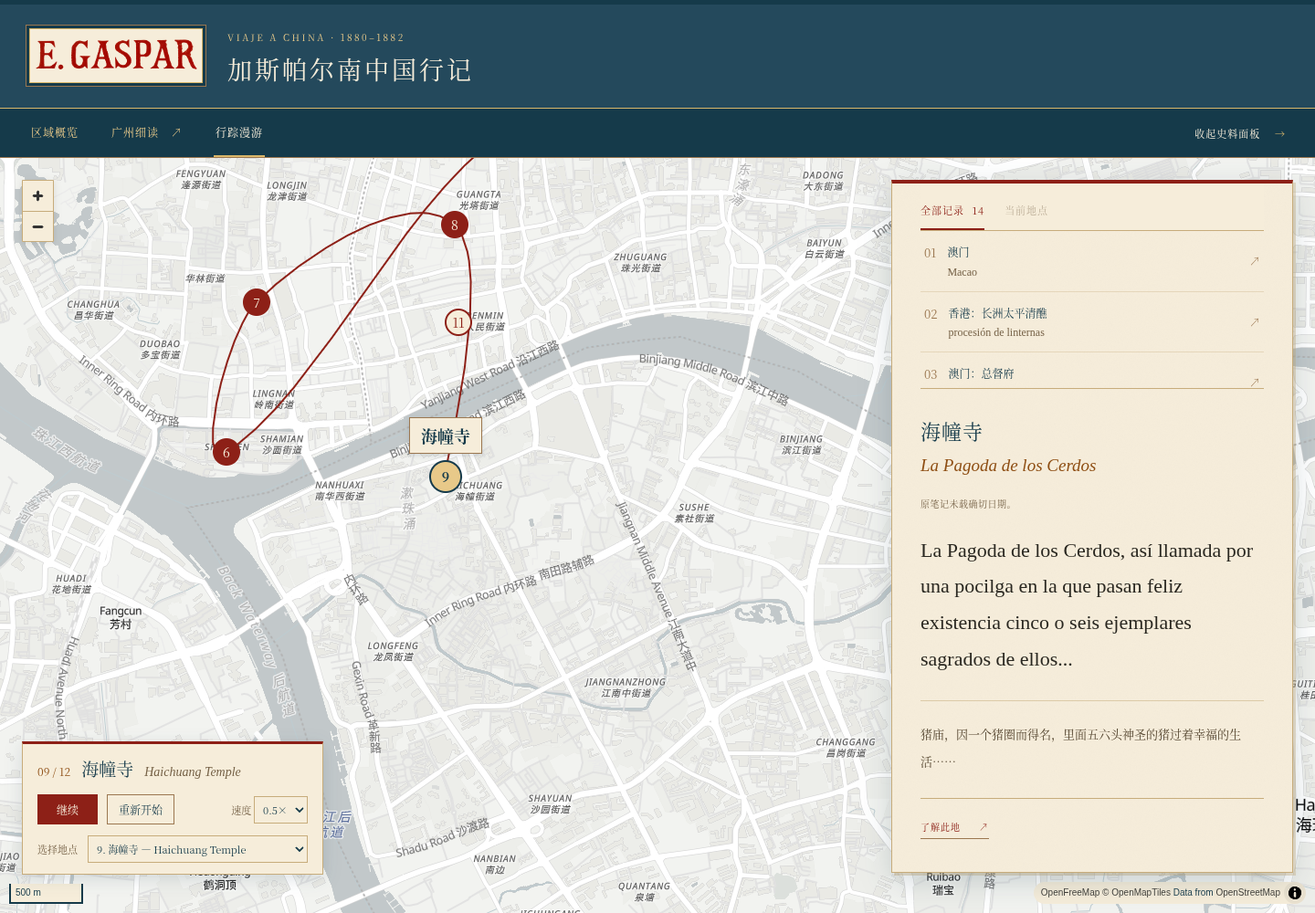
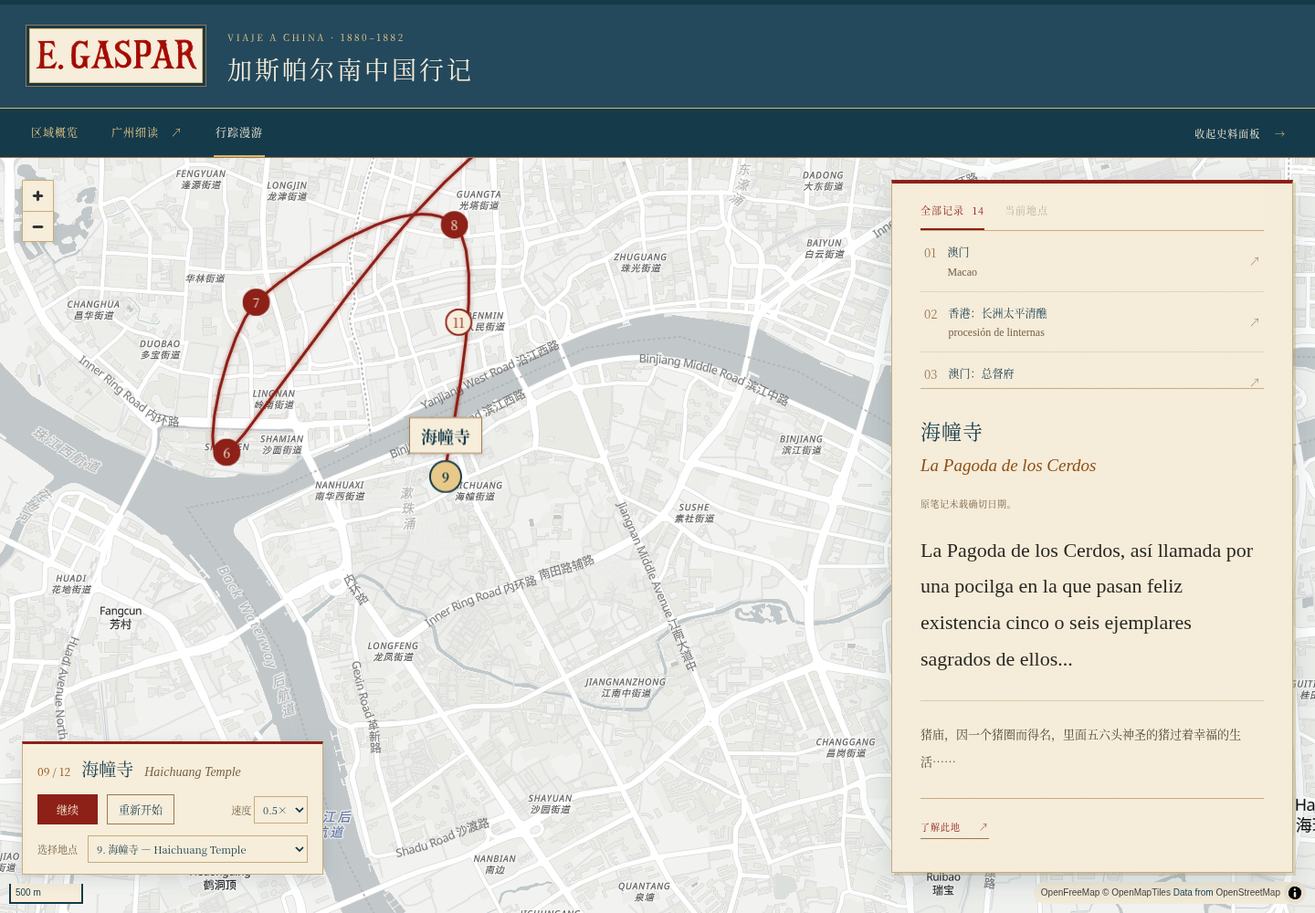
Remove stray journey connectors and stabilize softly glowing route playback

Changed region(s): [[0.1562, 0.186, 0.3438, 0.496], [0.3125, 0.248, 0.375, 0.527], [0.1875, 0.31, 0.2188, 0.341]]

diff --git a/004_Interactive_Map_MVP/src/JourneyMap.tsx b/004_Interactive_Map_MVP/src/JourneyMap.tsx
@@ -1,7 +1,7 @@
 import { useEffect, useRef, useState } from 'react';
 import maplibregl, { type GeoJSONSource, type Map as LibreMap, Marker } from 'maplibre-gl';
 import 'maplibre-gl/dist/maplibre-gl.css';
-import { journeyCoordinates, journeyLineLayer, positionAt, SEGMENT_SECONDS, type JourneyStop } from './journey';
+import { journeyCoordinates, journeyLineLayers, positionAt, SEGMENT_SECONDS, type JourneyStop } from './journey';
 import type { Place } from './data';
 
 function readingPadding(map: LibreMap, panelOpen: boolean) {
@@ -19,25 +19,24 @@ function readingPadding(map: LibreMap, panelOpen: boolean) {
 export default function JourneyMap({ stops, panelOpen, onStop }: { stops: JourneyStop[]; panelOpen: boolean; onStop: (record: Place) => void }) {
   const container = useRef<HTMLDivElement>(null), mapRef = useRef<LibreMap | null>(null);
   const [progress, setProgress] = useState(0), [playing, setPlaying] = useState(false), [speed, setSpeed] = useState(1);
-  const [ready, setReady] = useState(false), [mapIdle, setMapIdle] = useState(false), [mapError, setMapError] = useState('');
+  const [ready, setReady] = useState(false), [mapError, setMapError] = useState('');
   const progressRef = useRef(0), playingRef = useRef(false), speedRef = useRef(1);
   const selectRef = useRef<(index: number) => void>(() => {});
   const latest = useRef({ onStop, panelOpen }); latest.current = { onStop, panelOpen };
-  const elements = useRef<HTMLElement[]>([]), [mobile, setMobile] = useState(() => window.innerWidth <= 650);
+  const elements = useRef<HTMLElement[]>([]);
+  const drawRef = useRef<(value: number, following: boolean) => void>(() => {});
   const maximum = stops.length - 1, active = Math.min(Math.floor(progress), maximum), finished = progress >= maximum;
   const current = stops[active];
-  function seek(index: number) { playingRef.current = false; setPlaying(false); progressRef.current = index; setProgress(index); }
+  function seek(index: number) { playingRef.current = false; setPlaying(false); progressRef.current = index; setProgress(index); drawRef.current(index, false); }
   selectRef.current = seek;
   function restart() { seek(0); }
   function togglePlayback() {
     if (finished) { progressRef.current = 0; setProgress(0); }
+    mapRef.current?.stop();
+    if (playingRef.current) setProgress(progressRef.current);
     playingRef.current = !playingRef.current; setPlaying(playingRef.current);
   }
   useEffect(() => { speedRef.current = speed; }, [speed]);
-  useEffect(() => {
-    const query = window.matchMedia('(max-width: 650px)'); const change = () => setMobile(query.matches);
-    query.addEventListener('change', change); return () => query.removeEventListener('change', change);
-  }, []);
   useEffect(() => {
     if (!container.current || !stops.length) return;
     let map: LibreMap;
@@ -51,7 +50,6 @@ export default function JourneyMap({ stops, panelOpen, onStop }: { stops: Journe
     pad();
     map.addControl(new maplibregl.NavigationControl({ showCompass: false }), 'top-left');
     map.addControl(new maplibregl.ScaleControl({ unit: 'metric' }), 'bottom-left');
-    const leaders = document.createElementNS('http://www.w3.org/2000/svg', 'svg'); leaders.classList.add('journey-leaders'); container.current.append(leaders);
     const markers = stops.map((stop, index) => {
       const button = document.createElement('button'); button.type = 'button'; button.className = 'journey-marker upcoming';
       const number = document.createElement('span'); number.textContent = String(stop.step);
@@ -59,63 +57,49 @@ export default function JourneyMap({ stops, panelOpen, onStop }: { stops: Journe
       button.append(number, label); button.setAttribute('aria-label', `漫游第${stop.step}站 ${stop.name}`);
       button.title = `${stop.name} · ${stop.english}`; button.addEventListener('click', () => selectRef.current(index));
       elements.current[index] = button;
-      return new Marker({ element: button, anchor: 'center' }).setLngLat(stop.coordinates).addTo(map);
+      return new Marker({ element: button, anchor: 'center', subpixelPositioning: true }).setLngLat(stop.coordinates).addTo(map);
     });
-    // Screen-space decluttering only; marker geographic anchors and source coordinates stay unchanged.
+    // No offsets or connector lines: markers remain at their verified geographic anchors.
     const arrange = () => {
       if (container.current) container.current.dataset.actualCameraLng = String(map.getCenter().lng);
       const occupied: { x: number; y: number }[] = [];
       const activeIndex = Math.min(Math.floor(progressRef.current), stops.length - 1);
-      leaders.replaceChildren();
       const order = [activeIndex, ...stops.map((_, index) => index).filter(index => index !== activeIndex)];
       for (const index of order) {
         const point = map.project(stops[index].coordinates);
-        let offset: [number, number] = [0, 0];
-        search: for (let ring = 0; ring <= 12; ring++) {
-          const count = ring ? ring * 8 : 1;
-          for (let n = 0; n < count; n++) {
-            const angle = n / count * Math.PI * 2;
-            const candidate: [number, number] = [Math.cos(angle) * ring * 44, Math.sin(angle) * ring * 44];
-            const x = point.x + candidate[0], y = point.y + candidate[1];
-            if (occupied.every(other => Math.hypot(x - other.x, y - other.y) >= 44)) { offset = candidate; break search; }
-          }
-        }
-        occupied.push({ x: point.x + offset[0], y: point.y + offset[1] });
-        markers[index].setOffset(offset);
-        if (Math.hypot(...offset) > 1) {
-          const line = document.createElementNS(leaders.namespaceURI, 'line');
-          for (const [key, value] of Object.entries({ x1: point.x, y1: point.y, x2: point.x + offset[0], y2: point.y + offset[1] })) line.setAttribute(key, String(value));
-          leaders.append(line);
-        }
+        elements.current[index].dataset.anchorX = String(point.x);
+        elements.current[index].dataset.anchorY = String(point.y);
+        const visible = occupied.every(other => Math.hypot(point.x - other.x, point.y - other.y) >= 40);
+        elements.current[index].style.visibility = visible ? 'visible' : 'hidden';
+        if (visible) occupied.push(point);
       }
     };
+    map.on('move', arrange);
     map.on('render', arrange);
     map.on('load', () => {
       map.addSource('journey-route', { type: 'geojson', data: { type: 'FeatureCollection', features: [] } });
-      map.addLayer(journeyLineLayer(window.innerWidth <= 650));
+      journeyLineLayers().forEach(layer => map.addLayer(layer));
       setReady(true);
     });
-    map.on('movestart', () => setMapIdle(false));
-    map.on('idle', () => setMapIdle(true));
+    map.on('movestart', () => { if (container.current) container.current.dataset.mapIdle = 'false'; });
+    map.on('idle', () => { if (container.current) container.current.dataset.mapIdle = 'true'; });
     map.on('error', () => setMapError('部分底图暂时无法加载，漫游控制与史料仍可使用。'));
     const resize = new ResizeObserver(() => { map.resize(); pad(); }); resize.observe(container.current);
     const controls = container.current.parentElement?.querySelector('.journey-controls'); if (controls) resize.observe(controls);
-    return () => { resize.disconnect(); leaders.remove(); markers.forEach(marker => marker.remove()); elements.current = []; map.remove(); mapRef.current = null; };
+    return () => { resize.disconnect(); markers.forEach(marker => marker.remove()); elements.current = []; map.remove(); mapRef.current = null; };
   }, [stops]);
   useEffect(() => {
     const map = mapRef.current; if (!map) return;
     map.setPadding(readingPadding(map, panelOpen));
   }, [panelOpen]);
   useEffect(() => {
-    const map = mapRef.current;
-    if (ready && map?.getLayer('journey-route')) map.setPaintProperty('journey-route', 'line-width', mobile ? 1.5 : 2);
-  }, [mobile, ready]);
-  useEffect(() => {
     let frame = 0, last = 0;
     const tick = (time: number) => {
       if (last && playingRef.current && ready) {
         const next = Math.min(maximum, progressRef.current + Math.min(time - last, 100) / 1000 * speedRef.current / SEGMENT_SECONDS);
-        progressRef.current = next; setProgress(next);
+        const previous = progressRef.current; progressRef.current = next;
+        drawRef.current(next, true);
+        if (Math.floor(previous) !== Math.floor(next) || next >= maximum) setProgress(next);
         if (next >= maximum) { playingRef.current = false; setPlaying(false); }
       }
       last = time; frame = requestAnimationFrame(tick);
@@ -125,32 +109,37 @@ export default function JourneyMap({ stops, panelOpen, onStop }: { stops: Journe
   useEffect(() => { latest.current.onStop(stops[active].record); }, [active, stops]);
   useEffect(() => {
     const map = mapRef.current; if (!ready || !map) return;
-    setMapIdle(false);
-    const coordinates = journeyCoordinates(stops, progress);
-    (map.getSource('journey-route') as GeoJSONSource).setData({ type: 'FeatureCollection', features: coordinates.length >= 2 ? [{ type: 'Feature', properties: {}, geometry: { type: 'LineString', coordinates } }] : [] });
-    elements.current.forEach((element, index) => {
-      const status = index === active ? 'active' : index < active ? 'completed' : 'upcoming';
-      element.classList.remove('active', 'completed', 'upcoming'); element.classList.add(status); element.dataset.status = status;
-      element.setAttribute('aria-current', index === active ? 'step' : 'false');
-    });
-    if (progress === 0 && !playing) {
-      map.easeTo({ center: [113.72, 22.7], zoom: 8.1, duration: 700 });
-    } else {
-      const zoom = progress < 3 ? 8.1 : 8.1 + Math.min((progress - 3) / 2, 1) * 5.4;
-      let center = positionAt(stops, progress);
-      if (progress < .25) {
-        const blend = progress / .25;
+    let previousActive = -1;
+    drawRef.current = (value, following) => {
+      const activeIndex = Math.min(Math.floor(value), stops.length - 1);
+      const coordinates = journeyCoordinates(stops, value);
+      (map.getSource('journey-route') as GeoJSONSource).setData({ type: 'FeatureCollection', features: coordinates.length >= 2 ? [{ type: 'Feature', properties: {}, geometry: { type: 'LineString', coordinates } }] : [] });
+      if (container.current) {
+        container.current.dataset.progress = String(value);
+        container.current.dataset.routePoints = String(value > 0 ? Math.ceil(value) + 1 : 0);
+      }
+      if (activeIndex !== previousActive) {
+        elements.current.forEach((element, index) => {
+          const status = index === activeIndex ? 'active' : index < activeIndex ? 'completed' : 'upcoming';
+          element.classList.remove('active', 'completed', 'upcoming'); element.classList.add(status); element.dataset.status = status;
+          element.setAttribute('aria-current', index === activeIndex ? 'step' : 'false');
+        });
+        previousActive = activeIndex;
+      }
+      const zoom = value < 3 ? 8.1 : 8.1 + Math.min((value - 3) / 2, 1) * 5.4;
+      let center = positionAt(stops, value);
+      if (following && value < .25) {
+        const blend = value / .25;
         center = [113.72 + (center[0] - 113.72) * blend, 22.7 + (center[1] - 22.7) * blend];
       }
-      if (playingRef.current) {
-        // Follow the same progressive curve endpoint on every animation frame.
-        map.jumpTo({ center, zoom });
-      }
-      else map.easeTo({ center, zoom, duration: 700 });
-    }
-  }, [progress, ready, stops]);
+      if (following) map.jumpTo({ center, zoom });
+      else { map.stop(); map.easeTo({ center: value === 0 ? [113.72, 22.7] : center, zoom, duration: 700 }); }
+    };
+    drawRef.current(progressRef.current, false);
+    return () => { drawRef.current = () => {}; };
+  }, [ready, stops]);
   return <section className="map-section journey-map" aria-label="行踪漫游地图">
-    <div ref={container} className="map-canvas" data-testid="journey-canvas" data-progress={progress} data-map-idle={mapIdle} data-complete={finished} data-route-points={progress > 0 ? Math.ceil(progress) + 1 : 0} data-camera-longitude={positionAt(stops, progress)[0]} data-line-width={mobile ? 1.5 : 2} />
+    <div ref={container} className="map-canvas" data-testid="journey-canvas" data-map-idle="false" data-complete={finished} data-line-width="3" />
     {!ready && !mapError && <div className="map-loading">正在展开漫游地图…</div>}
     {mapError && <div className="tile-notice" role="status">{mapError}</div>}
     <div className="journey-controls" aria-label="漫游播放控制">

diff --git a/004_Interactive_Map_MVP/tests/journey.spec.ts b/004_Interactive_Map_MVP/tests/journey.spec.ts
@@ -2,7 +2,7 @@ import { test, expect } from './fixtures';
 import Papa from 'papaparse';
 import { readFileSync } from 'node:fs';
 import { parsePlaces } from '../src/data';
-import { buildJourneyStops, journeyCoordinates, journeyLineLayer, CURVE_SAMPLES, positionAt } from '../src/journey';
+import { buildJourneyStops, journeyCoordinates, journeyLineLayers, CURVE_SAMPLES, positionAt } from '../src/journey';
 import { researchNotes } from '../src/researchNotes';
 import { placeInformation } from '../src/placeInfo';
 const csv = readFileSync('public/data/places_geocoded.csv', 'utf8');
@@ -18,9 +18,11 @@ test('curated stops preserve 14 source records, verified coordinates and exact s
   expect(stops.map((_, index) => journeyCoordinates(stops, 11)[index * CURVE_SAMPLES])).toEqual(stops.map(stop => [stop.record.longitude, stop.record.latitude]));
   expect(positionAt(stops, 1.5)).not.toEqual([(stops[1].coordinates[0]+stops[2].coordinates[0])/2,(stops[1].coordinates[1]+stops[2].coordinates[1])/2]);
   expect(journeyCoordinates(stops, 0)).toEqual([]);
-  expect(journeyLineLayer(false).paint).toEqual({ 'line-color': '#8D2017', 'line-width': 2 });
-  expect(journeyLineLayer(true).paint).toEqual({ 'line-color': '#8D2017', 'line-width': 1.5 });
-  expect(journeyLineLayer(false).layout).toEqual({ 'line-cap': 'round', 'line-join': 'round' });
+  const prefix = journeyCoordinates(stops, 2.4);
+  expect(prefix).toEqual([...journeyCoordinates(stops, 11).slice(0, Math.floor(2.4 * CURVE_SAMPLES) + 1), positionAt(stops, 2.4)]);
+  expect(prefix[prefix.length-1]).toEqual(positionAt(stops, 2.4));
+  expect(journeyLineLayers().map(layer => layer.paint?.['line-width'])).toEqual([14,8,3]);
+  expect(journeyLineLayers().every(layer => layer.source === 'journey-route' && layer.paint?.['line-color'] === '#8D2017')).toBe(true);
   expect(researchNotes[10]).toContain('尚需史料印证');
   expect(Object.keys(placeInformation)).toEqual(['9','10','11','12','13','14']);
   expect(Papa.parse(csv, {header:true,skipEmptyLines:true}).data).toHaveLength(14);
@@ -66,11 +68,11 @@ test('journey plays, pauses, resumes, retains completed route and restarts', asy
   await expect(page.locator('.map-marker.overview')).toHaveCount(5,{timeout:20000});
 });
 
-test('mobile journey has all stops, 1.5px route and usable playback controls',async({page})=>{
+test('mobile journey has all stops, 3px glowing route and usable playback controls',async({page})=>{
   await page.setViewportSize({width:390,height:844}); await page.goto('/');
   await expect(page.getByTestId('record-list').locator('li')).toHaveCount(14);
   await page.getByRole('button',{name:'行踪漫游',exact:true}).click();
-  await expect(page.getByTestId('journey-canvas')).toHaveAttribute('data-line-width','1.5');
+  await expect(page.getByTestId('journey-canvas')).toHaveAttribute('data-line-width','3');
   await expect(page.getByLabel('选择漫游地点').locator('option')).toHaveCount(12);
   await page.getByLabel('选择漫游地点').selectOption('10');
   await expect(page.locator('.journey-current')).toContainText('圣心大教堂');
@@ -139,7 +141,37 @@ test('compact desktop controls leave reached Humen marker and floating caption c
   await page.screenshot({path:'journey-humen.png'});
   await page.getByLabel('选择漫游地点').selectOption('8');
   await expect(page.getByTestId('journey-canvas')).toHaveAttribute('data-map-idle','true');
-  const circles = await page.locator('.journey-marker').evaluateAll(elements => elements.map(element => {const r=element.getBoundingClientRect(); return {x:r.x+r.width/2,y:r.y+r.height/2};}));
-  for(let a=0;a<circles.length;a++)for(let b=a+1;b<circles.length;b++)expect(Math.hypot(circles[a].x-circles[b].x,circles[a].y-circles[b].y)).toBeGreaterThan(40);
+  const circles = await page.locator('.journey-marker:visible').evaluateAll(elements => elements.map(element => {const r=element.getBoundingClientRect(); return {x:r.x+r.width/2,y:r.y+r.height/2};}));
+  for(let a=0;a<circles.length;a++)for(let b=a+1;b<circles.length;b++)expect(Math.hypot(circles[a].x-circles[b].x,circles[a].y-circles[b].y)).toBeGreaterThanOrEqual(39.9);
   await page.screenshot({path:'journey-guangzhou.png'});
+});
+
+test('only the progressive route renders and marker DOM stays subpixel-anchored at regional and city scales', async ({page}) => {
+  await page.goto('/');
+  await page.getByRole('button',{name:'行踪漫游',exact:true}).click();
+  const canvas = page.getByTestId('journey-canvas');
+  await expect(page.getByRole('button',{name:'播放',exact:true})).toBeEnabled();
+  await expect(canvas).toHaveAttribute('data-route-points','0');
+  await expect(page.locator('.journey-leaders, .journey-map svg line')).toHaveCount(0);
+  const firstMarker = await page.locator('.journey-marker').first().elementHandle();
+  for (const stop of ['0','7']) {
+    await page.getByLabel('选择漫游地点').selectOption(stop);
+    await expect(canvas).toHaveAttribute('data-map-idle','true',{timeout:20000});
+    await page.getByLabel('播放速度').selectOption('0.5');
+    await page.getByRole('button',{name:stop==='0'?'播放':'继续',exact:true}).click();
+    const started = Number(await canvas.getAttribute('data-progress'));
+    await expect.poll(async()=>Number(await canvas.getAttribute('data-progress'))).toBeGreaterThan(started+.05);
+    for(let sample=0;sample<4;sample++) {
+      const error = await page.locator('.journey-marker').evaluateAll(elements => {
+        const map = document.querySelector('[data-testid="journey-canvas"]')!.getBoundingClientRect();
+        return Math.max(...elements.map(element=>{const r=element.getBoundingClientRect(),e=element as HTMLElement;return Math.hypot(r.x+r.width/2-map.x-Number(e.dataset.anchorX),r.y+r.height/2-map.y-Number(e.dataset.anchorY));}));
+      });
+      expect(error).toBeLessThan(1);
+      await page.waitForTimeout(70);
+    }
+    expect(await firstMarker!.evaluate(element=>element===document.querySelector('.journey-marker'))).toBe(true);
+    await page.getByRole('button',{name:'暂停',exact:true}).click();
+    expect(Number(await canvas.getAttribute('data-route-points'))).toBeLessThanOrEqual(Number(stop)+2);
+    await page.screenshot({path:stop==='0'?'journey-regional-glow.png':'journey-city-glow.png'});
+  }
 });

diff --git a/004_Interactive_Map_MVP/src/journey.ts b/004_Interactive_Map_MVP/src/journey.ts
@@ -19,7 +19,7 @@ export function buildJourneyStops(records: Place[]): JourneyStop[] {
 }
 export const SEGMENT_SECONDS = 3.2;
 // Presentation-only cubic interpolation; sampled points are not historical waypoints.
-export const CURVE_SAMPLES = 32;
+export const CURVE_SAMPLES = 64;
 export function positionAt(stops: JourneyStop[], progress: number): [number, number] {
   const value = Math.max(0, Math.min(progress, stops.length - 1)), i = Math.floor(value), t = value - i;
   const a = stops[i].coordinates, b = stops[Math.min(i + 1, stops.length - 1)].coordinates;
@@ -30,6 +30,15 @@ export function positionAt(stops: JourneyStop[], progress: number): [number, num
     return [origin[0] + sign * dx / length * distance * .28, origin[1] + sign * dy / length * distance * .28];
   };
   const c = control(a, before, b, 1), d = control(b, a, after, -1), u = 1 - t;
+  // Limit each handle near tight urban turns to avoid wide detours from regional legs.
+  const limit = (origin: [number, number], handle: [number, number], adjacent: [number, number]) => {
+    const length = Math.hypot(handle[0]-origin[0], handle[1]-origin[1]);
+    const maximum = Math.min(distance, Math.hypot(adjacent[0]-origin[0], adjacent[1]-origin[1])) * .28;
+    const scale = length ? Math.min(1, maximum / length) : 0;
+    handle[0] = origin[0] + (handle[0]-origin[0])*scale; handle[1] = origin[1] + (handle[1]-origin[1])*scale;
+  };
+  if(i > 0) limit(a,c,before);
+  if(i+2 < stops.length) limit(b,d,after);
   return [0, 1].map(axis => u*u*u*a[axis] + 3*u*u*t*c[axis] + 3*u*t*t*d[axis] + t*t*t*b[axis]) as [number, number];
 }
 export function journeyCoordinates(stops: JourneyStop[], progress: number): [number, number][] {
@@ -41,8 +50,12 @@ export function journeyCoordinates(stops: JourneyStop[], progress: number): [num
   return points;
 }
 
-export function journeyLineLayer(mobile: boolean): LineLayerSpecification {
-  return { id: 'journey-route', type: 'line', source: 'journey-route',
+export function journeyLineLayers(): LineLayerSpecification[] {
+  return [
+    { id: 'journey-route-outer', width: 14, opacity: .12, blur: 7 },
+    { id: 'journey-route-inner', width: 8, opacity: .22, blur: 3 },
+    { id: 'journey-route', width: 3, opacity: 1, blur: 0 },
+  ].map(({ id, width, opacity, blur }) => ({ id, type: 'line', source: 'journey-route',
     layout: { 'line-cap': 'round', 'line-join': 'round' },
-    paint: { 'line-color': '#8D2017', 'line-width': mobile ? 1.5 : 2 } };
+    paint: { 'line-color': '#8D2017', 'line-width': width, 'line-opacity': opacity, 'line-blur': blur } }));
 }

diff --git a/004_Interactive_Map_MVP/src/style.css b/004_Interactive_Map_MVP/src/style.css
@@ -221,6 +221,3 @@ h1 { font-family: var(--serif); font-size: 27px; font-weight: 500; letter-spacin
 .journey-stop-label { display: none; position: absolute; left: 50%; bottom: calc(100% + 9px); transform: translateX(-50%); width: max-content; max-width: 220px; padding: 6px 12px; background: var(--paper); color: var(--ink-blue); border: 1px solid var(--aged-brown); box-shadow: 0 2px 6px #153a4a25; font: 600 18px serif; pointer-events: none; }
 .journey-marker.active .journey-stop-label { display: block; }
 @media (max-width: 650px) { .journey-stop-label { font-size: 15px; padding: 5px 9px; } }
-
-.journey-leaders { position: absolute; inset: 0; width: 100%; height: 100%; pointer-events: none; z-index: 0; overflow: hidden; }
-.journey-leaders line { stroke: #8D2017; stroke-width: 1; opacity: .55; }

diff --git a/004_Interactive_Map_MVP/README.md b/004_Interactive_Map_MVP/README.md
@@ -118,7 +118,7 @@ Playwright使用系统Chromium（若存在）；也可设置 `PLAYWRIGHT_CHROMIU
 - 当前站名、英文名和步骤显示在控制栏，可用下拉框或地图标记手动选站；手动选择暂停播放并显示截至该站的线段。
 - 进入广州附近逐渐放大；完成后保持整条路线，可自由缩放查看。离开漫游会清理动画，重新进入从澳门开始。
 - 原源记录列表保留原阅读／定位行为；从该列表选记录会回到常规概览或详细地图。漫游内选站使用漫游控件或圆形站点标记。
-- 路线严格为 `#8D2017` 单一连续实线，桌面2px、手机1.5px，圆头圆角。无虚线、渐变、光晕或附加描边。
+- 路线严格为 `#8D2017` 单一连续实线，主线3px、不透明；同一渐进几何另叠加14px低透明度柔光和8px中低透明度内光。全部深红#8D2017，圆头圆角，无箭头或虚线。
 - 连接的是叙事选点，不代表历史道路、水道或精确行程。显示曲线采用端点固定的三次贝塞尔插值，曲线采样只用于绘图，不是经考证的道路、水路或中间停留点，不写回历史数据，也不补写日期。
 
 “考证札记”不再显示，但原札记仍保存在 `src/researchNotes.ts`，CSV的historical_notes读取支持及全部坐标来源均保留。
@@ -140,4 +140,6 @@ Playwright使用系统Chromium（若存在）；也可设置 `PLAYWRIGHT_CHROMIU
 
 Codespaces更新方式不变：停止旧Vite，从仓库根目录 `git pull --ff-only origin main`，进入004后运行 `npm run dev`，打开现有5173转发地址。不创建永久部署、不修改仓库隐私。
 
-圆圈避让仅作用于屏幕显示：当前站保持地理锚点，其他拥挤圆圈按44px最小中心间距偏移，并用细引线指回原坐标；缩放、拖动和播放时实时重排。原始14条记录、12站坐标及历史文本保持不变。
+所有圆圈保持原坐标、零偏移及亚像素定位，不再绘制避让引线。密集时仅隐藏与当前站或优先圆圈重叠的次要圆圈，全部12站仍可从选择框访问。圆圈DOM仅创建一次；逐帧路线与镜头更新不经过React状态，只有到站时更新历史内容。播放前停止未完成的镜头过渡，避免逐帧移动与easeTo竞争。原始14条记录、12站坐标及历史文本保持不变。
+
+路线的三层只引用同一个journey-route GeoJSON源，源中仅包含已完成段和当前端点之前的曲线采样；重启清空几何，切换视图移除整张漫游地图。曲线每段64次采样，城市转弯处的控制柄受相邻短边长度约束，避免跨尺度时夸张绕行。

diff --git a/004_Interactive_Map_MVP/VALIDATION.md b/004_Interactive_Map_MVP/VALIDATION.md
@@ -69,3 +69,14 @@
 线宽按最新指令减半为桌面2px、手机1.5px，深红色保持#8D2017。逐段三次贝塞尔曲线通过全部12个原坐标端点，以共享切向方向平滑转弯；采样是视觉插值，不代表历史途经点。动画镜头逐帧跟随同一曲线的延伸前端。圆圈用屏幕偏移避让，地理锚点由细引线标明，不改数据坐标。
 
 验证结果：生产构建成功，12项完整回归通过；随后补充的镜头途中移动与12圆圈间距断言亦通过。浏览器中确认同一线段内镜头经度持续变化，广州视图各圆圈中心距离大于40px。截图journey-guangzhou.png展示密集区域，journey-humen.png展示移动途中的线路；所有历史坐标与CSV保持不变，001–003无差异。
+
+
+## 线路渲染与标记稳定性修复（2026-10-27）
+
+根因：额外细线是上一轮SVG避让引线，不是历史路线；每帧重算setOffset造成圆圈屏幕位置跳动，整数像素定位与每帧React状态更新进一步影响播放稳定性。
+
+处理：删除SVG引线及相关样式，不再设置屏幕偏移。12个Marker一次创建，subpixelPositioning启用；遮挡仅影响可见性，坐标固定不变。单一RAF同步驱动曲线渐进和镜头，React只在到站时更新阅读内容，播放前停止已有easeTo。
+
+线路只使用一个GeoJSON源，三层共享同一已揭示前缀：外光14px/透明度0.12/blur7，内光8px/0.22/blur3，主线3px/1/blur0，统一#8D2017及圆角圆头。无未来线段、额外连接线或持久SVG几何。转弯控制柄限制到相邻短边长度，曲线通过原始12站，采样不作为历史地点。
+
+最终验证：生产构建成功，13项自动测试全部通过（1.6分钟）。新测试在区域与广州城市尺度持续采样全部标记中心，和地图投影误差小于1px，并验证同一DOM实例、没有SVG引线、渐进几何严格为完整曲线前缀。截图journey-regional-glow.png、journey-city-glow.png展示实际底图和当前前缀；journey-desktop.png、journey-mobile.png亦已更新。阶段03与应用CSV逐字节一致，001–003及其他地图视图源文件未修改。
